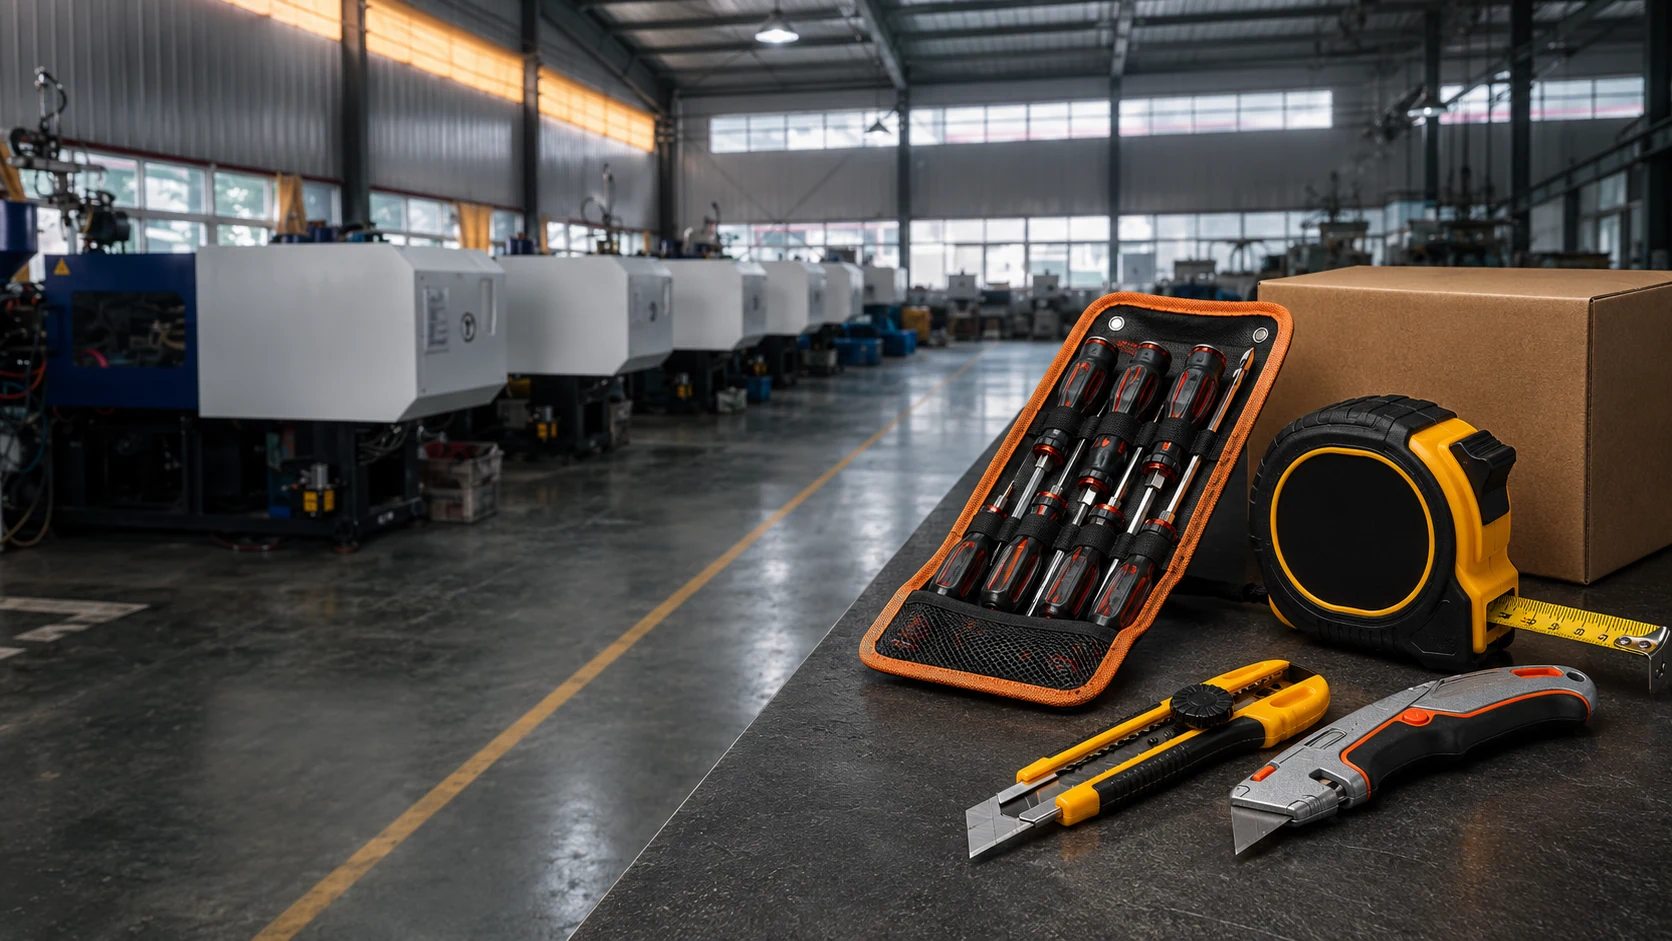
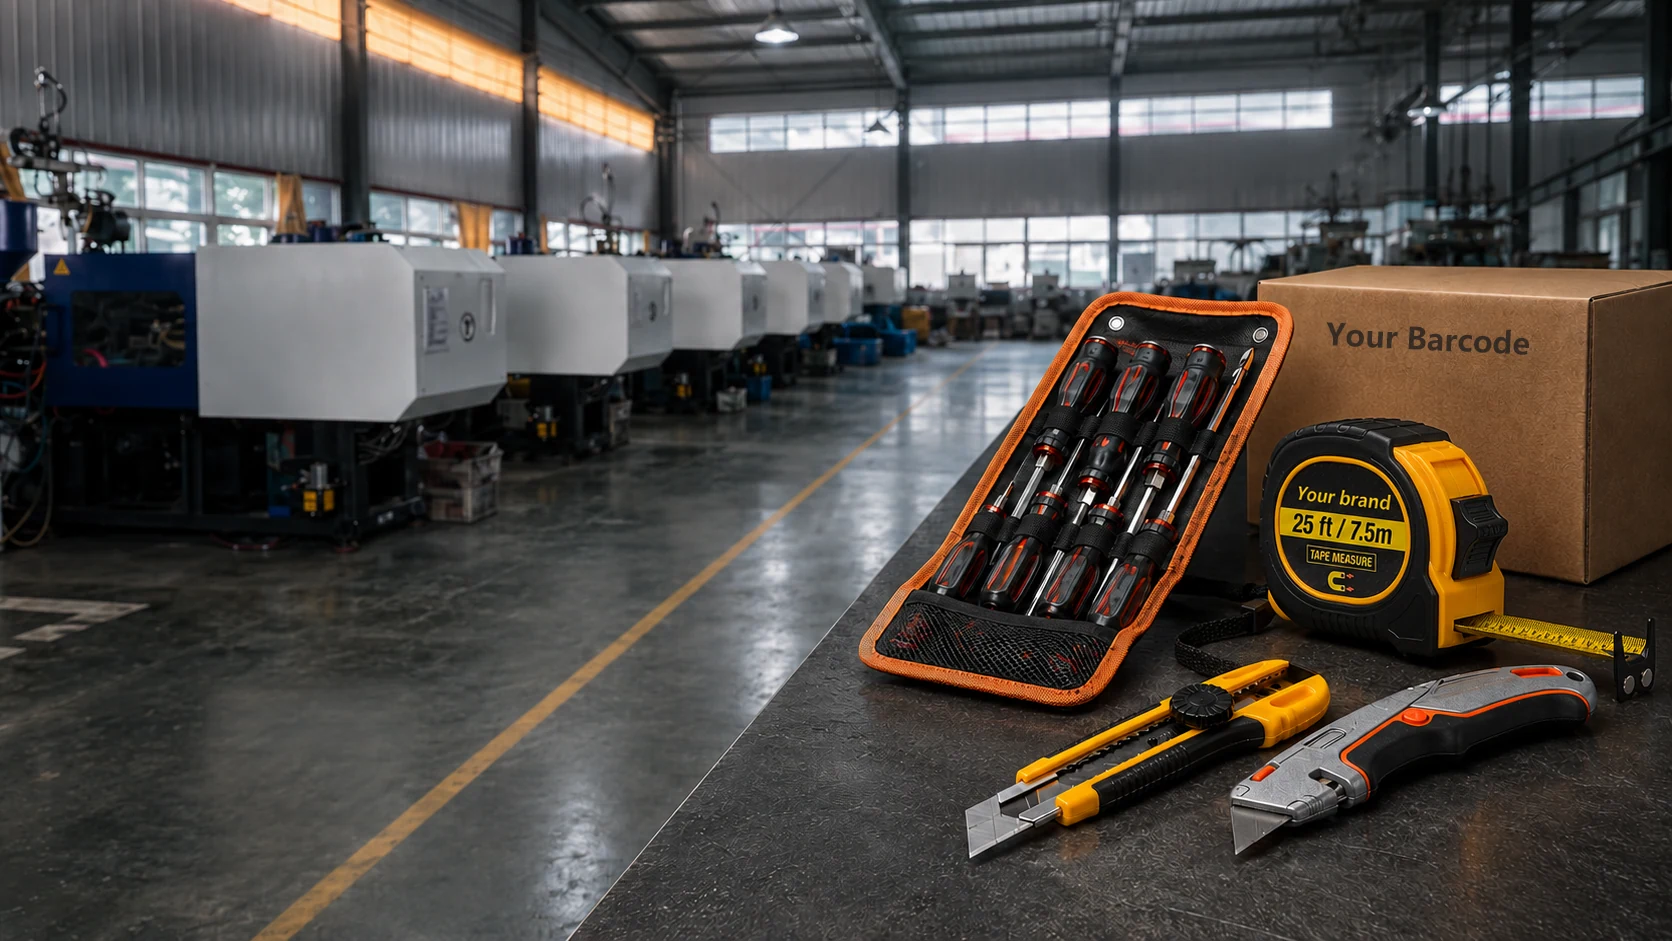
Refresh homepage hero visuals

diff --git a/src/styles/global.css b/src/styles/global.css
@@ -194,8 +194,8 @@ main {
   position: absolute;
   inset: 0;
   background:
-    linear-gradient(90deg, rgba(4, 8, 12, 0.74) 0%, rgba(9, 14, 20, 0.58) 34%, rgba(9, 14, 20, 0.18) 62%, rgba(4, 8, 12, 0.04) 100%),
-    linear-gradient(180deg, rgba(4, 8, 12, 0.04), rgba(4, 8, 12, 0.14));
+    linear-gradient(90deg, rgba(4, 8, 12, 0.64) 0%, rgba(9, 14, 20, 0.46) 34%, rgba(9, 14, 20, 0.12) 62%, rgba(4, 8, 12, 0.02) 100%),
+    linear-gradient(180deg, rgba(4, 8, 12, 0.02), rgba(4, 8, 12, 0.08));
 }
 
 .hero-inner {
@@ -1319,7 +1319,7 @@ small,
 
   .hero-overlay {
     background:
-      linear-gradient(180deg, rgba(4, 8, 12, 0.58) 0%, rgba(4, 8, 12, 0.42) 34%, rgba(4, 8, 12, 0.18) 64%, rgba(4, 8, 12, 0.04) 100%);
+      linear-gradient(180deg, rgba(4, 8, 12, 0.46) 0%, rgba(4, 8, 12, 0.32) 34%, rgba(4, 8, 12, 0.12) 64%, rgba(4, 8, 12, 0.02) 100%);
   }
 
   .hero-inner {